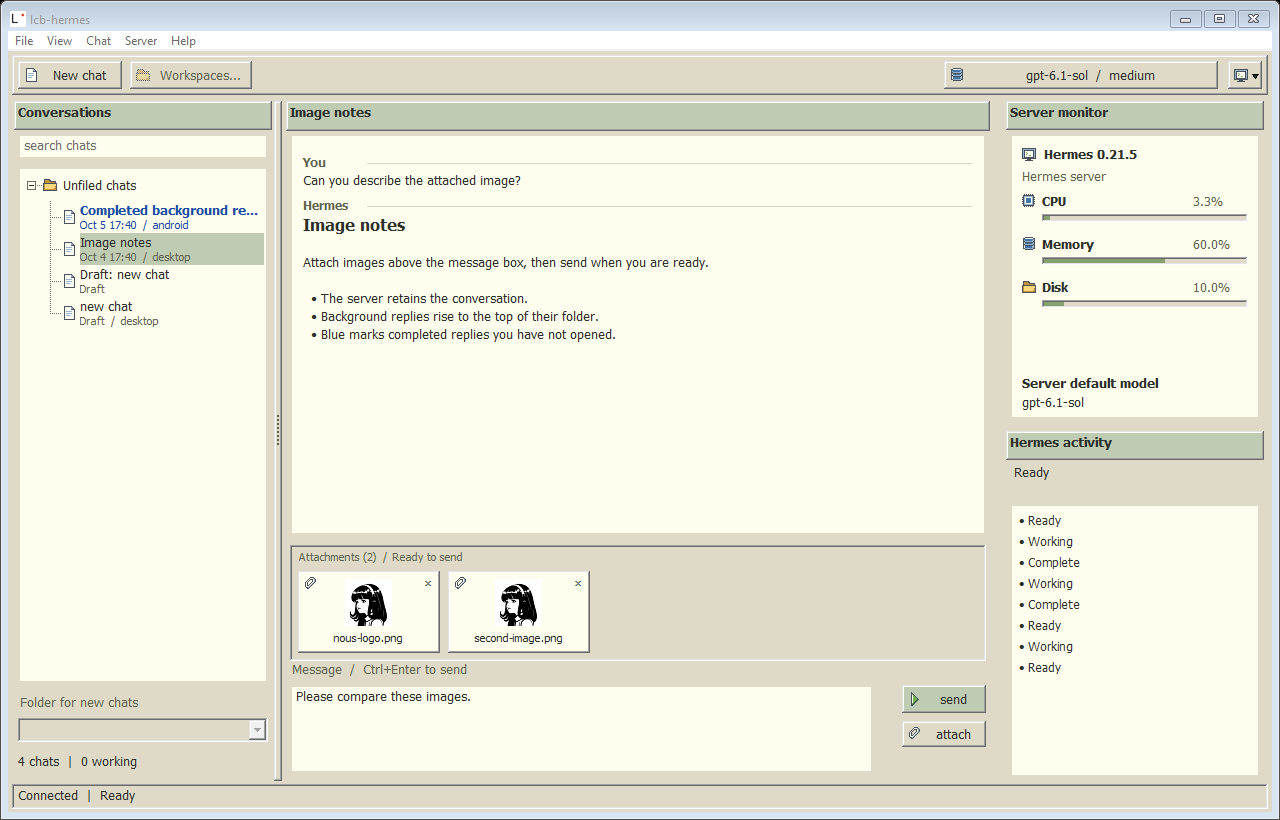
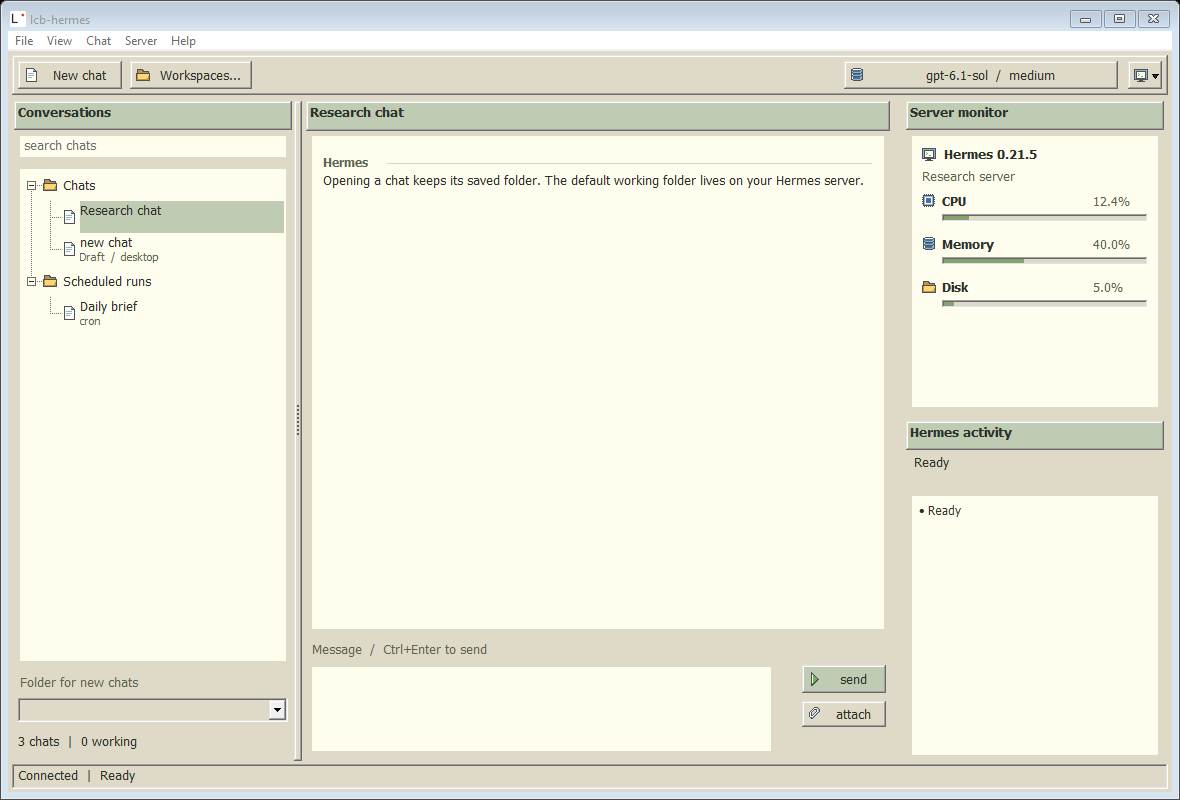
Refresh README with current desktop and Android previews

Changed region(s): [[0.0, 0.0, 1.0, 1.0]]

diff --git a/README.md b/README.md
@@ -2,23 +2,27 @@
 
 Small native clients for Hermes. No ads. No purchases.
 
-<img src="branding/phone.png" width="220" alt="lcb-hermes chats">
-<img src="branding/fold.png" width="400" alt="lcb-hermes on a wide screen">
+- **Desktop [0.50-pre1](https://github.com/larkingroup/lcb-hermes/releases/tag/v0.50-pre1)** — C / Win32, Windows 10+ x64. One portable EXE.
+- **Android [0.4.7](https://github.com/larkingroup/lcb-hermes/releases/tag/v0.4.7)** — native Java, Android 8+.
 
-Connect with your Hermes server URL and login. Models and tools stay on the server.
-Use your configured address, such as `https://server:port`.
-Private HTTP needs the checkbox. First installs open the server setup window.
+Connect to your Hermes server with its URL and login. Models and tools stay on
+the server. Chats, separate drafts, attachments, model choices, and Hermes activity
+sit in a classic beige workbench.
 
-Chats in a sidebar: tucked away on phones, beside the conversation on wider screens.
-Separate drafts and image previews. Tasks keep going when you switch chats.
-The computer icon chooses saved servers and opens the server monitor or manager.
-Both clients use the classic beige workbench, with server workspaces, a searchable
-model and effort picker, dated chat history, and compact Hermes activity.
-Background replies move up and stay blue until opened. Draft attachments appear
-above the composer; export lives in the Chat menu.
+Desktop adds tray notifications and native server settings for provider accounts,
+API keys, and custom endpoints. A running Hermes server is required.
 
-- [Android](android/): native Java, Android 8+.
-- [PC](desktop/): C / Win32, Windows 10+ x64; portable EXE, based on lcb-ai.
-- [iOS](ios/): later.
+**Desktop · 0.50-pre1**
 
-Tested against Hermes 0.21.5. [Downloads](https://github.com/larkingroup/lcb-hermes/releases).
+<img src="branding/pc-workbench.png" width="820" alt="Desktop 0.50-pre1 with Chats, Scheduled runs, conversation, and server monitor">
+
+**Android · 0.4.7**
+
+<img src="branding/phone.png" width="220" alt="Android 0.4.7 on a phone">
+<img src="branding/fold.png" width="520" alt="Android 0.4.7 wide-screen workbench">
+
+Screenshots use example conversations. [Desktop details](desktop/) ·
+[Android details](android/) · [Downloads](https://github.com/larkingroup/lcb-hermes/releases)
+
+Hermes Agent is made by [Nous Research and the Hermes team](https://github.com/NousResearch/hermes-agent).
+lcb-hermes is an independent client. Tested against Hermes 0.21.5.
